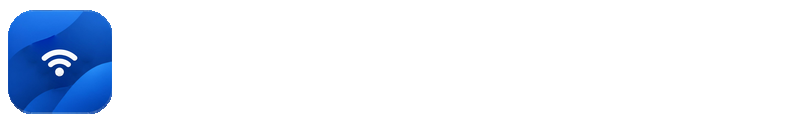
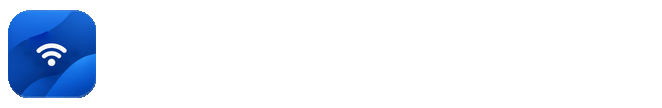
README: smaller header, bigger screenshots (#35)
* Header: smaller text (header-title-dark.png)

* Header: smaller text (header-title-light.png)

* README: smaller header text; screenshots 2-per-row at 300px

diff --git a/README.md b/README.md
@@ -2,7 +2,7 @@
 
 <picture>
   <source media="(prefers-color-scheme: dark)" srcset="docs/images/header-title-dark.png" />
-  <img src="docs/images/header-title-light.png" alt="Wi-Fi Data Meter" width="397" />
+  <img src="docs/images/header-title-light.png" alt="Wi-Fi Data Meter" width="331" />
 </picture>
 
 <p><strong>Track Wi‑Fi data usage, understand app traffic, and stay ahead of your plan.</strong></p>
@@ -34,16 +34,12 @@
 <div align="center">
 <table>
   <tr>
-    <td align="center"><img src="docs/screenshots/home.jpg" width="210" alt="Home dashboard" /></td>
-    <td align="center"><img src="docs/screenshots/apps.jpg" width="210" alt="App usage analytics" /></td>
-    <td align="center"><img src="docs/screenshots/history.jpg" width="210" alt="Usage history" /></td>
-    <td align="center"><img src="docs/screenshots/settings.jpg" width="210" alt="Settings" /></td>
+    <td align="center"><img src="docs/screenshots/home.jpg" width="300" alt="Home dashboard" /><br /><strong>Home</strong></td>
+    <td align="center"><img src="docs/screenshots/apps.jpg" width="300" alt="App usage analytics" /><br /><strong>Apps</strong></td>
   </tr>
   <tr>
-    <td align="center">Home</td>
-    <td align="center">Apps</td>
-    <td align="center">History</td>
-    <td align="center">Settings</td>
+    <td align="center"><img src="docs/screenshots/history.jpg" width="300" alt="Usage history" /><br /><strong>History</strong></td>
+    <td align="center"><img src="docs/screenshots/settings.jpg" width="300" alt="Settings" /><br /><strong>Settings</strong></td>
   </tr>
 </table>
 </div>
